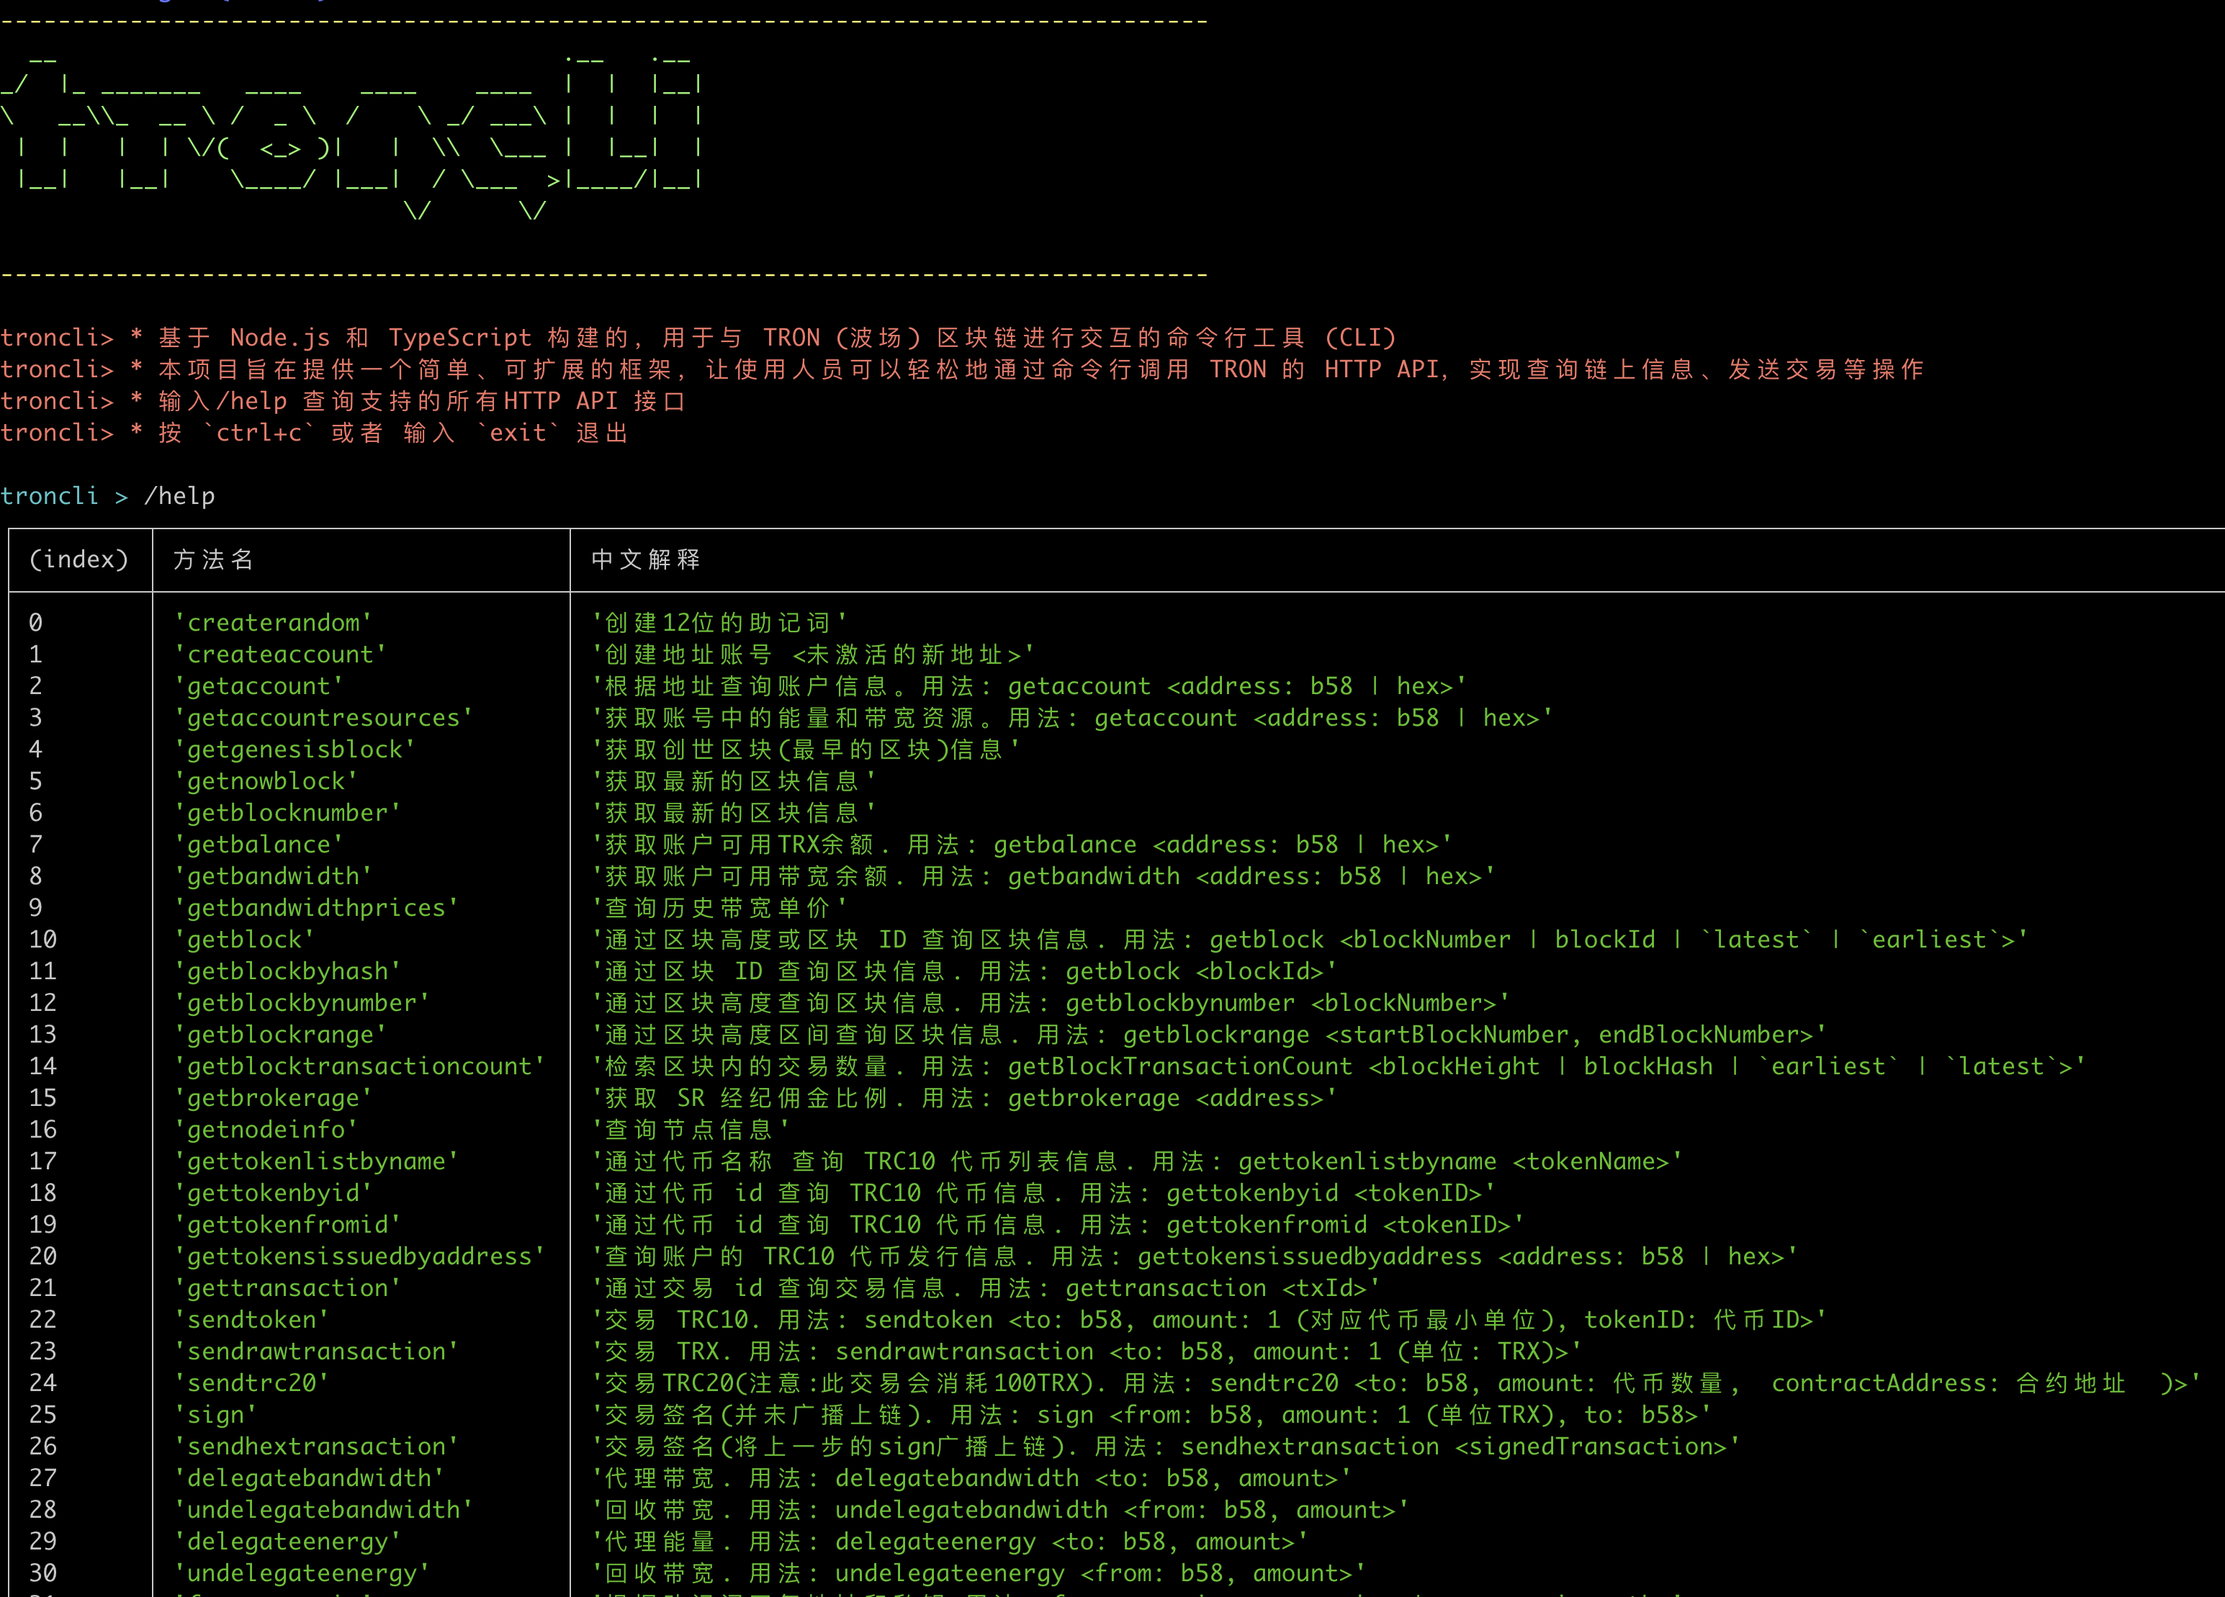
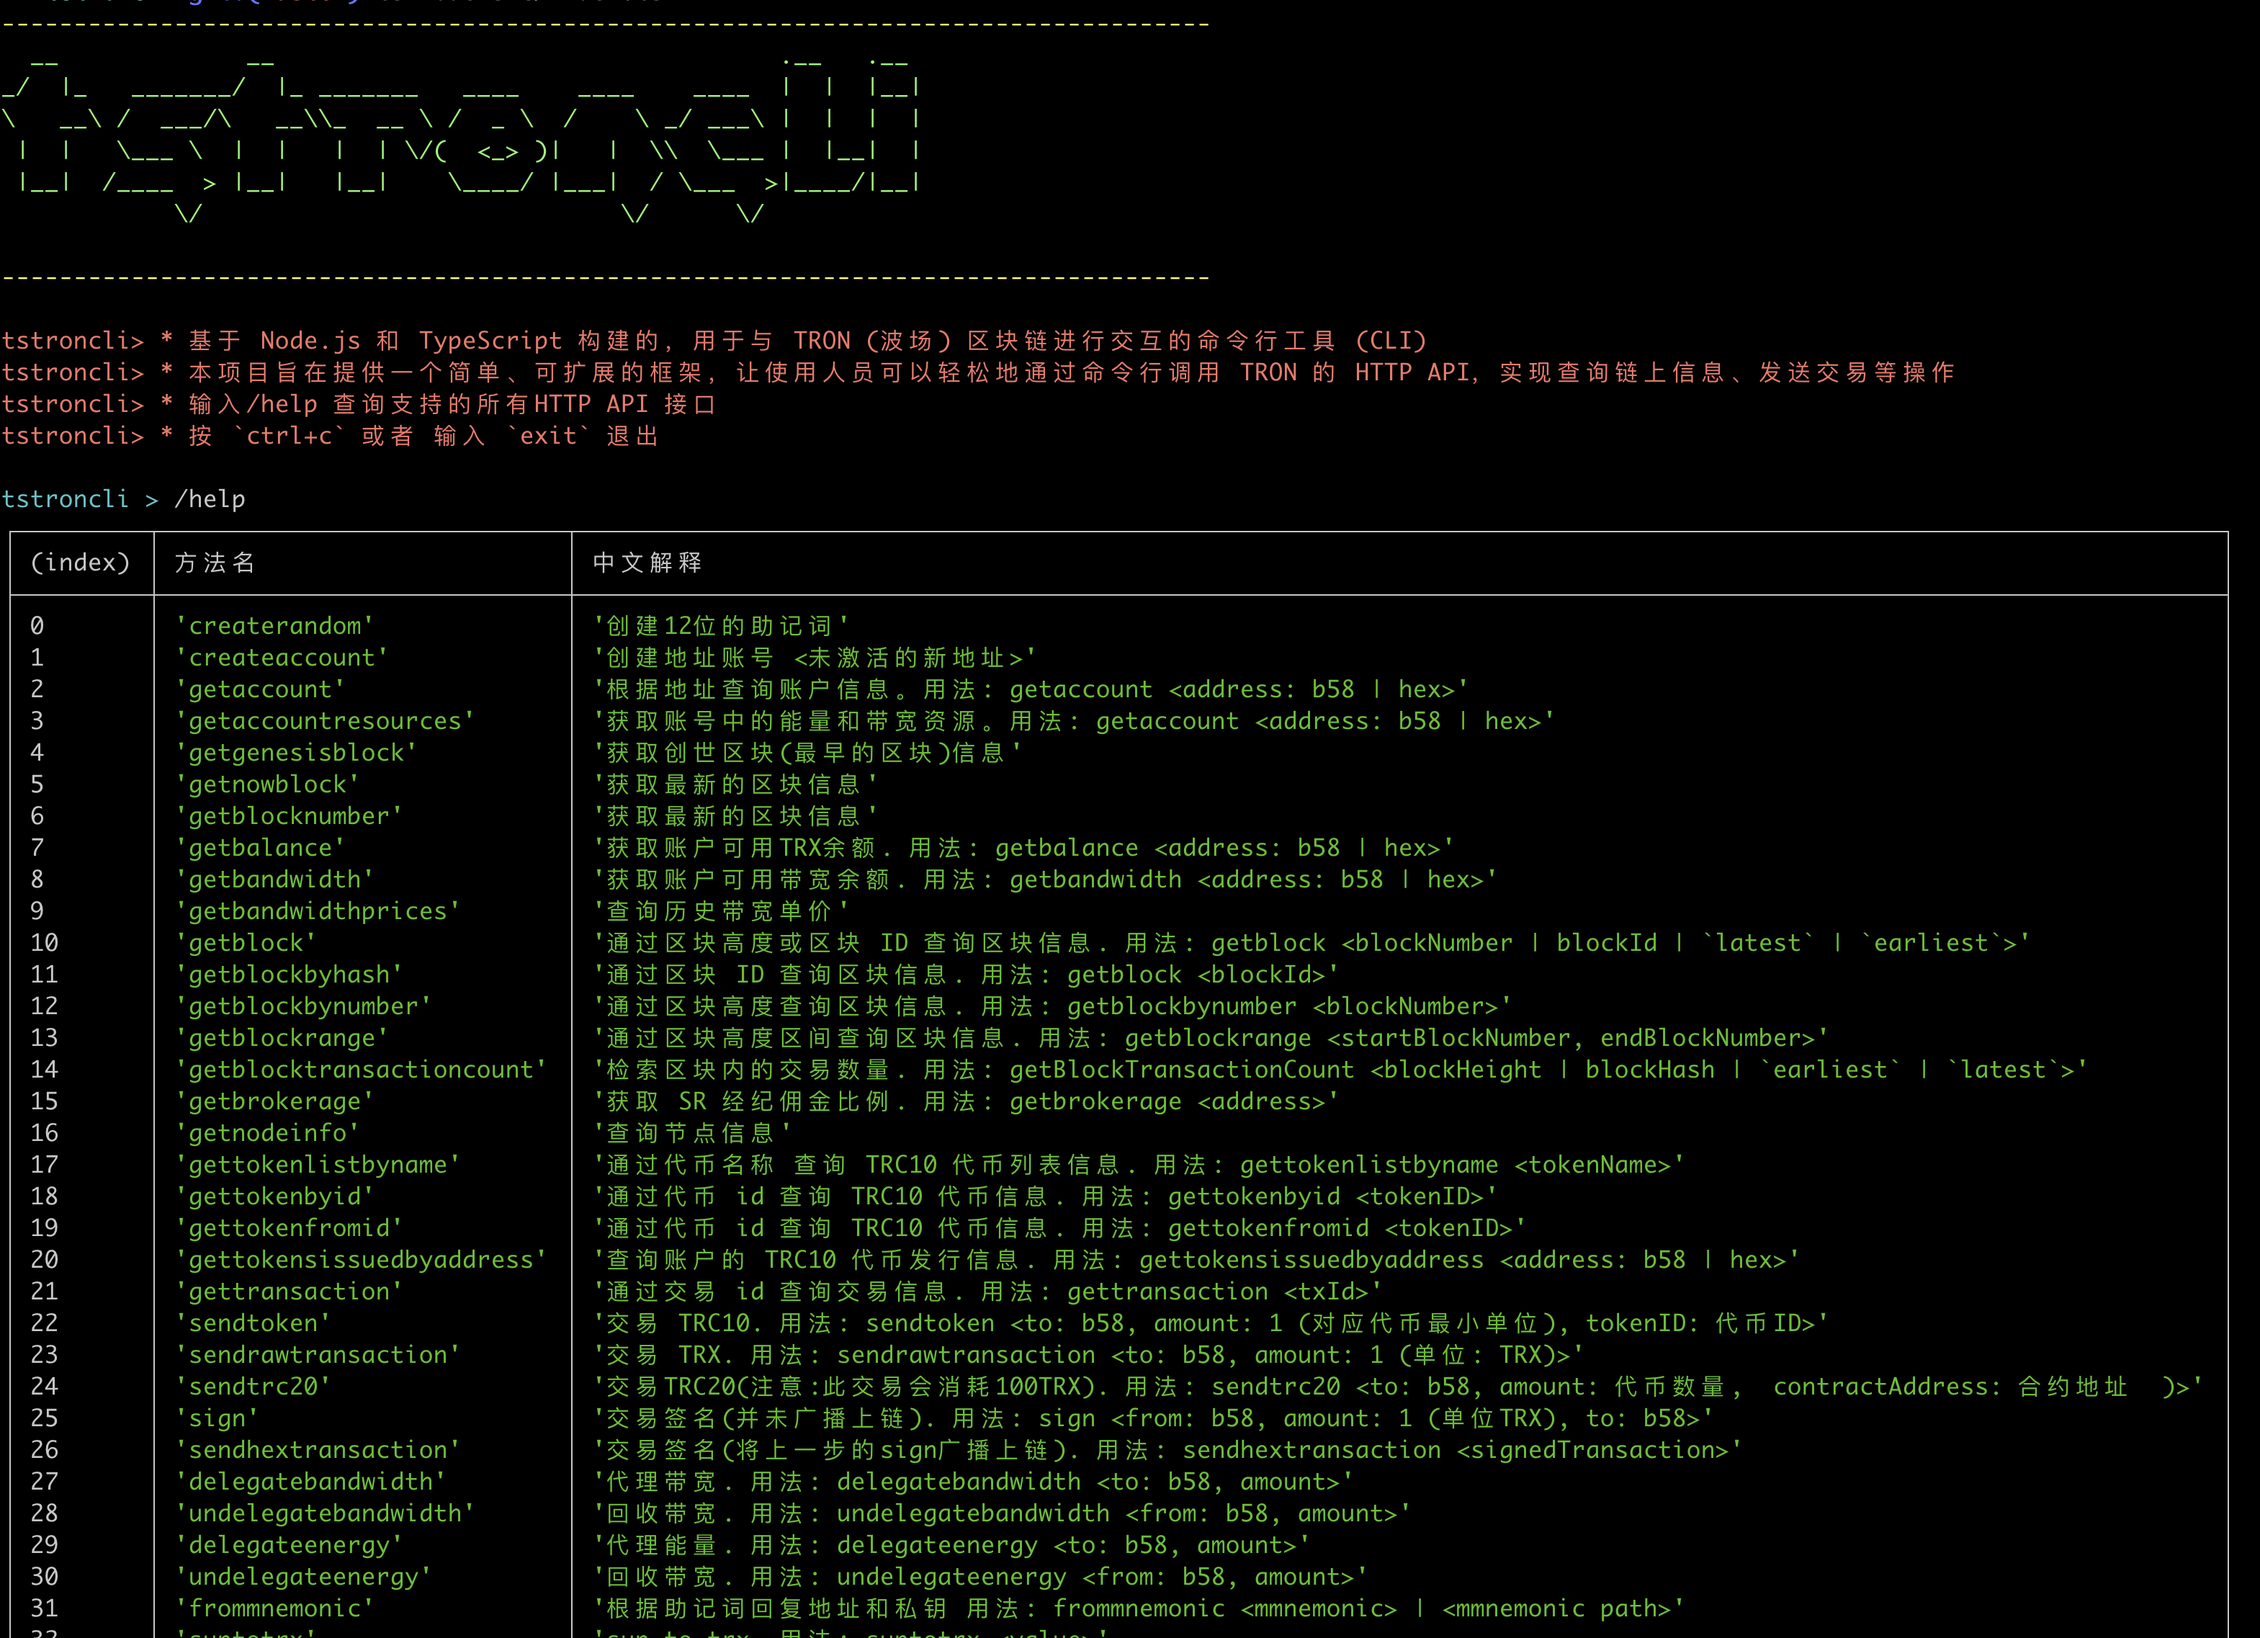
account & address & block

diff --git a/src/welcome.ts b/src/welcome.ts
@@ -11,7 +11,7 @@ export function showWelcomeMessage() {
   );
   log(
     chalk.greenBright(
-      figlet.textSync("troncli", {
+      figlet.textSync("tstroncli", {
         font: "Graffiti",
         horizontalLayout: "full",
         width: 200,
@@ -27,15 +27,15 @@ export function showWelcomeMessage() {
   log("");
   log(
     chalk.redBright(
-      "troncli> * 基于 Node.js 和 TypeScript 构建的，用于与 TRON (波场) 区块链进行交互的命令行工具 (CLI)"
+      "tstroncli> * 基于 Node.js 和 TypeScript 构建的，用于与 TRON (波场) 区块链进行交互的命令行工具 (CLI)"
     )
   );
   log(
     chalk.redBright(
-      "troncli> * 本项目旨在提供一个简单、可扩展的框架，让使用人员可以轻松地通过命令行调用 TRON 的 HTTP API，实现查询链上信息、发送交易等操作"
+      "tstroncli> * 本项目旨在提供一个简单、可扩展的框架，让使用人员可以轻松地通过命令行调用 TRON 的 HTTP API，实现查询链上信息、发送交易等操作"
     )
   );
-  log(chalk.redBright("troncli> * 输入/help 查询支持的所有HTTP API 接口"));
-  log(chalk.redBright("troncli> * 按 `ctrl+c` 或者 输入 `exit` 退出"));
+  log(chalk.redBright("tstroncli> * 输入/help 查询支持的所有HTTP API 接口"));
+  log(chalk.redBright("tstroncli> * 按 `ctrl+c` 或者 输入 `exit` 退出"));
   log("");
 }

diff --git a/src/index.ts b/src/index.ts
@@ -16,7 +16,7 @@ const rl = readline.createInterface({
   output: process.stdout,
 });
 
-rl.setPrompt(chalk.cyan("troncli > "));
+rl.setPrompt(chalk.cyan("tstroncli > "));
 rl.prompt();
 
 rl.on("line", async (line) => {

diff --git a/README.md b/README.md
@@ -1,4 +1,4 @@
-# <center>troncli</center>
+# <center>tstroncli</center>
 
 ![](./summary.png)
 
@@ -23,12 +23,16 @@
 
 ## Npm packages
 
-<a href="https://www.npmjs.com/package/troncli" target="_blank">npm package troncli</a>
+<a href="https://www.npmjs.com/package/tstroncli" target="_blank">npm package tstroncli</a>
 
 ## 安装
 
 ```shell
-npm install -g troncli
+npm install -g tstroncli
+```
+
+```shell
+tstroncli
 ```
 
 ## 设置环境变量
